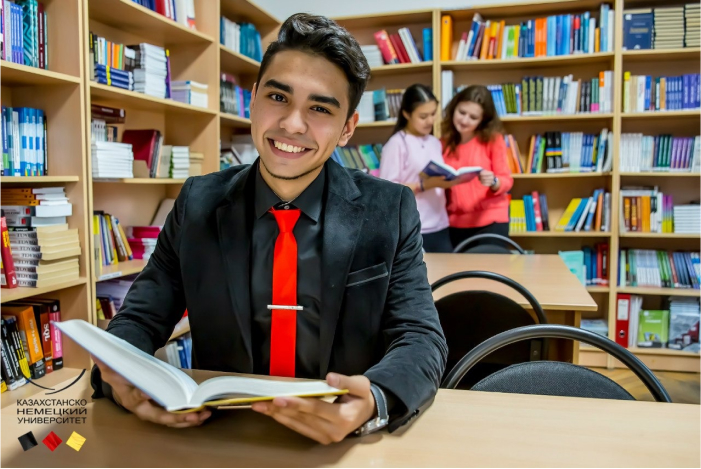
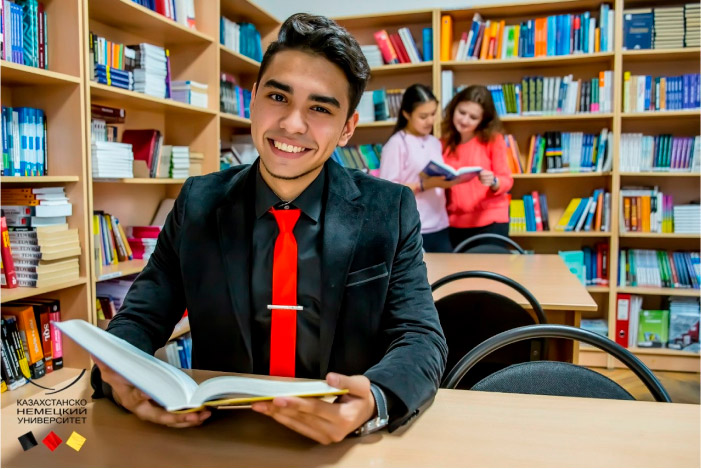
optimized images

diff --git a/client/src/components/adminPanel/AdminPanel.jsx b/client/src/components/adminPanel/AdminPanel.jsx
@@ -1,7 +1,7 @@
 import React from "react";
 import { Redirect } from "react-router-dom";
 import "./Admin.css";
-import adminPanelImg from "../../Redux/img/adminPanel/adminPanel.png";
+import adminPanelImg from "../../Redux/img/adminPanel/adminPanel.jpg";
 import LoginForm from "./AdminPanelComponents/LoginForm";
 
 let AdminPanel = (props) => {

diff --git a/client/src/components/mainPage/MainPage.css b/client/src/components/mainPage/MainPage.css
@@ -1,7 +1,7 @@
 .aboutMePage {
   height: calc(var(--vh, 1vh) * 100);
   background-color: #fff;
-  background-image: url(./img/main.png);
+  background-image: url(./img/main.jpg);
   background-attachment: fixed;
   background-position: right bottom;
   background-repeat: no-repeat;

diff --git a/client/src/components/aboutMePage/aboutMeComponents/AboutMePageBanner.jsx b/client/src/components/aboutMePage/aboutMeComponents/AboutMePageBanner.jsx
@@ -1,7 +1,7 @@
 import React from "react";
 import "../aboutMePage.css";
-import left from "../img/left.png";
-import right from "../img/right.png";
+import left from "../img/left.jpg";
+import right from "../img/right.jpg";
 
 let AboutMePageBanner = () => {
   return (
